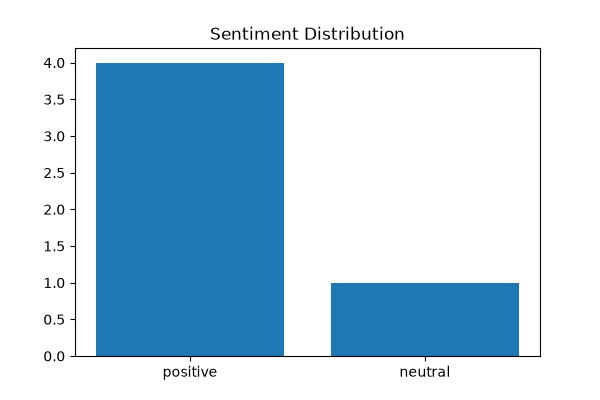
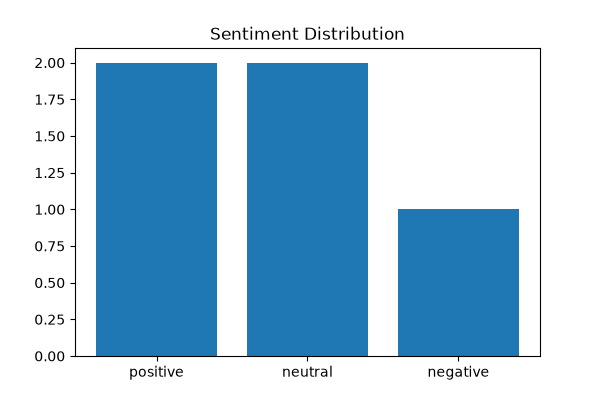
fixed backend python path on batamnews scraper

diff --git a/server/src/services/scraper/pythonRunner.ts b/server/src/services/scraper/pythonRunner.ts
@@ -1,11 +1,19 @@
     import { spawn } from "child_process";
+    import path from "path";
 
     export const runPythonRunner = (
         keyword: string
     ): Promise<any> => {
         return new Promise((resolve, reject) => {
             console.log("Running Python with keyword:", keyword);
-            const pythonProcess = spawn("python3", [
+            const pythonPath = path.join(
+                process.cwd(),
+                "python",
+                "venv",
+                "Scripts",
+                "python.exe"
+            );
+            const pythonProcess = spawn(pythonPath, [
                 "-m",
                 "nlp.pipeline",
                 keyword

diff --git a/server/python/batamnews/scraper.py b/server/python/batamnews/scraper.py
@@ -1,9 +1,14 @@
 import requests
 from bs4 import BeautifulSoup
 import json
+import sys
 
 
 def scrape_batamnews():
+    headers = {
+        "User-Agent":
+        "Mozilla/5.0 (Windows NT 10.0; Win64; x64) AppleWebKit/537.36"
+    }
 
     base_url_links = []
 
@@ -15,8 +20,12 @@ def scrape_batamnews():
 
     for url in base_url_links:
 
-        response = requests.get(url)
-        # print(response.status_code)
+        response = requests.get(
+            url,
+            headers = headers,
+            timeout=10
+        )
+        print(response.status_code, file=sys.stderr)
 
         soup = BeautifulSoup(
             response.text,
@@ -51,7 +60,12 @@ def scrape_batamnews():
 
     for news_link in links:
 
-        response = requests.get(news_link)
+        response = requests.get(
+            news_link,
+            headers= headers,
+            timeout=10
+        )
+        print(response.status_code, file=sys.stderr)
 
         soup = BeautifulSoup(
             response.text,

diff --git a/server/python/nlp/pipeline.py b/server/python/nlp/pipeline.py
@@ -34,7 +34,6 @@ def count_sentiment(articles):
 def run_pipeline(keyword):
     # dapetin artikel
     articles = scrape_batamnews()[:10]
-    # print("Total article: ", len(articles))
 
     # kalau scraping di blok web
     # articles = get_dummy_articles()
@@ -55,12 +54,14 @@ def run_pipeline(keyword):
         sentiment = classify_sentiment(article["cleaned_content"])
         article["sentiment"] = sentiment    
 
+    print("RELEVANT ARTICLES:", len(relevant_articles), file=sys.stderr)
+
     #hitung sentimen yang ada di relevan artikel
     sentiment_summary = count_sentiment(relevant_articles)
 
     # chunking relevan artikel, supaya gemini ga kena limit
     article_chunks = chunk_articles(relevant_articles)
-    # print("Total chunks: ", len(article_chunks))
+    print("Total chunks: ", len(article_chunks), ile=sys.stderr)
 
     # buat diagram batang sentimen
     sentiment_chart_path = create_sentiment_chart(relevant_articles)